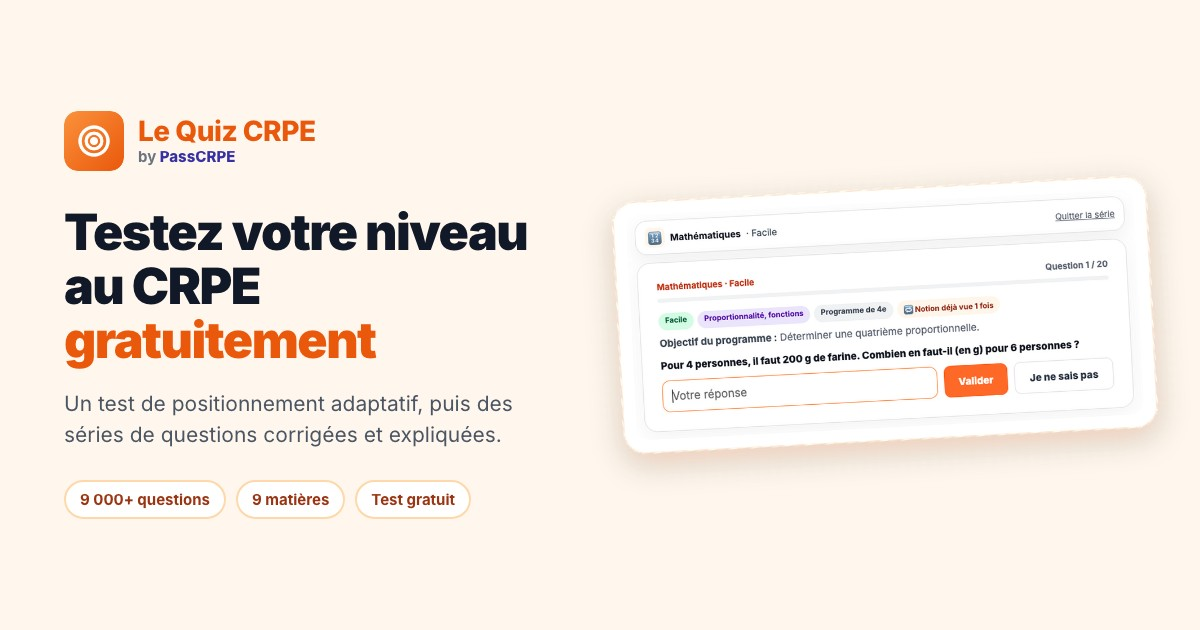
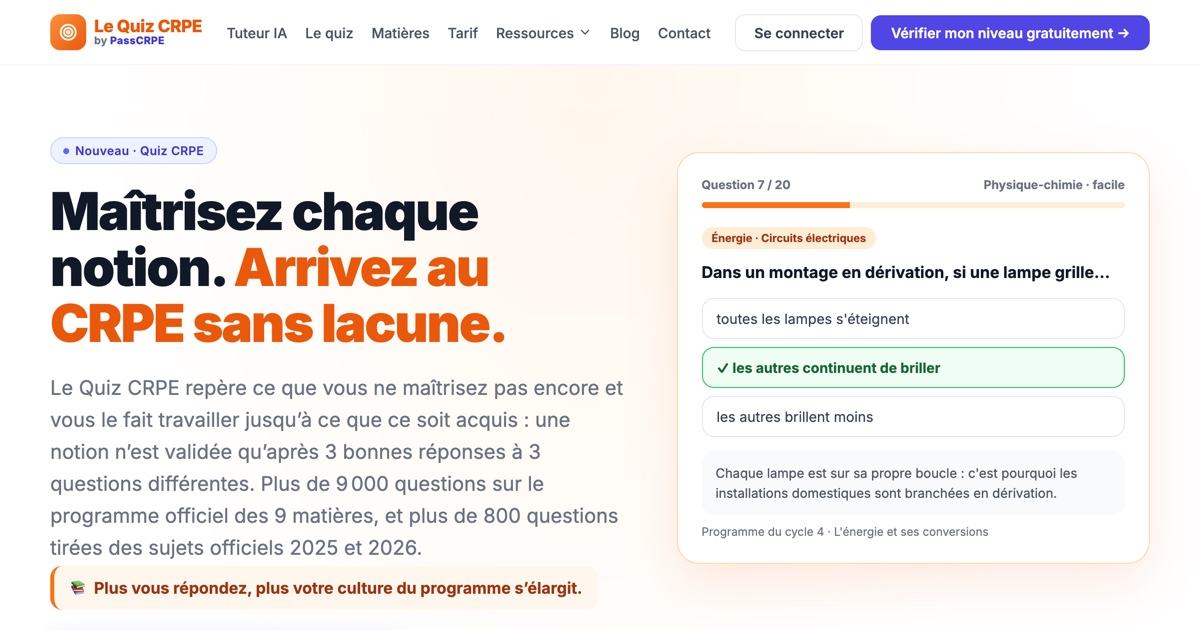
Quiz CRPE : aperçu de partage = premier écran de /quizcrpe
L'image partagée (og:image, twitter:image) reprend le haut de la page avec
sa proposition de valeur ; ?v=2 force la mise à jour des aperçus en cache.
Texte de la page : plus de 800 questions tirées des sujets officiels.

Changed region(s): [[0.0308, 0.1508, 0.9867, 0.9651], [0.6167, 0.0, 0.9558, 0.0905], [0.0308, 0.0, 0.5858, 0.0905]]

diff --git a/landing/quiz.html b/landing/quiz.html
@@ -39,15 +39,15 @@
   <meta property="og:url" content="https://www.passcrpe.fr/quizcrpe" />
   <meta property="og:title" content="Le Quiz CRPE by PassCRPE : testez votre niveau gratuitement" />
   <meta property="og:description" content="Test de positionnement gratuit, puis plus de 9 000 questions corrigées et expliquées dans les 9 matières du CRPE." />
-  <meta property="og:image" content="https://www.passcrpe.fr/images/partage-quizcrpe.jpg" />
+  <meta property="og:image" content="https://www.passcrpe.fr/images/partage-quizcrpe.jpg?v=2" />
   <meta property="og:image:type" content="image/jpeg" />
   <meta property="og:image:width" content="1200" />
   <meta property="og:image:height" content="630" />
-  <meta property="og:image:alt" content="Le Quiz CRPE by PassCRPE : une question de mathématiques du quiz" />
+  <meta property="og:image:alt" content="Le Quiz CRPE by PassCRPE : maîtrisez chaque notion, arrivez au CRPE sans lacune" />
   <meta name="twitter:card" content="summary_large_image" />
   <meta name="twitter:title" content="Le Quiz CRPE by PassCRPE : testez votre niveau gratuitement" />
   <meta name="twitter:description" content="Test de positionnement gratuit, puis plus de 9 000 questions corrigées et expliquées dans les 9 matières du CRPE." />
-  <meta name="twitter:image" content="https://www.passcrpe.fr/images/partage-quizcrpe.jpg" />
+  <meta name="twitter:image" content="https://www.passcrpe.fr/images/partage-quizcrpe.jpg?v=2" />
   <!-- /Partage -->
   <link rel="preconnect" href="https://fonts.googleapis.com" />
   <link href="https://fonts.googleapis.com/css2?family=Inter:wght@400;500;600;700;800;900&display=swap" rel="stylesheet" />
@@ -1182,7 +1182,7 @@ height="0" width="0" style="display:none;visibility:hidden"></iframe></noscript>
     <div class="qz-hero-texte">
       <div class="hero-badge"><span></span>Nouveau · Quiz CRPE</div>
       <h1>Maîtrisez chaque notion. <em>Arrivez au CRPE sans lacune.</em></h1>
-      <p class="hero-sub" style="margin-bottom:14px">Le Quiz CRPE repère ce que vous ne maîtrisez pas encore et vous le fait travailler jusqu’à ce que ce soit acquis : une notion n’est validée qu’après 3 bonnes réponses à 3 questions différentes. Plus de 9 000 questions sur le programme officiel des 9 matières, et près de 500 questions tirées des sujets officiels 2025 et 2026.</p>
+      <p class="hero-sub" style="margin-bottom:14px">Le Quiz CRPE repère ce que vous ne maîtrisez pas encore et vous le fait travailler jusqu’à ce que ce soit acquis : une notion n’est validée qu’après 3 bonnes réponses à 3 questions différentes. Plus de 9 000 questions sur le programme officiel des 9 matières, et plus de 800 questions tirées des sujets officiels 2025 et 2026.</p>
       <p class="hero-sub">Commencez par le test de positionnement gratuit : il vous montre vos lacunes, matière par matière.</p>
     </div>
     <div class="qz-hero-suite">

diff --git a/scripts/generate_quiz_vente.py b/scripts/generate_quiz_vente.py
@@ -207,7 +207,7 @@ def contenu():
     <div class="qz-hero-texte">
       <div class="hero-badge"><span></span>Nouveau · Quiz CRPE</div>
       <h1>Maîtrisez chaque notion. <em>Arrivez au CRPE sans lacune.</em></h1>
-      <p class="hero-sub" style="margin-bottom:14px">Le Quiz CRPE repère ce que vous ne maîtrisez pas encore et vous le fait travailler jusqu’à ce que ce soit acquis : une notion n’est validée qu’après 3 bonnes réponses à 3 questions différentes. Plus de {total_txt} questions sur le programme officiel des {len(MATIERES)} matières, et près de 500 questions tirées des sujets officiels 2025 et 2026.</p>
+      <p class="hero-sub" style="margin-bottom:14px">Le Quiz CRPE repère ce que vous ne maîtrisez pas encore et vous le fait travailler jusqu’à ce que ce soit acquis : une notion n’est validée qu’après 3 bonnes réponses à 3 questions différentes. Plus de {total_txt} questions sur le programme officiel des {len(MATIERES)} matières, et plus de 800 questions tirées des sujets officiels 2025 et 2026.</p>
       <p class="hero-sub">Commencez par le test de positionnement gratuit : il vous montre vos lacunes, matière par matière.</p>
     </div>
     <div class="qz-hero-suite">
@@ -400,15 +400,15 @@ PARTAGE = (
     f'  <meta property="og:url" content="{SITE}/quizcrpe" />\n'
     f'  <meta property="og:title" content="Le Quiz CRPE by PassCRPE : testez votre niveau gratuitement" />\n'
     f'  <meta property="og:description" content="Test de positionnement gratuit, puis plus de 9 000 questions corrigées et expliquées dans les 9 matières du CRPE." />\n'
-    f'  <meta property="og:image" content="{SITE}/images/partage-quizcrpe.jpg" />\n'
+    f'  <meta property="og:image" content="{SITE}/images/partage-quizcrpe.jpg?v=2" />\n'
     f'  <meta property="og:image:type" content="image/jpeg" />\n'
     f'  <meta property="og:image:width" content="1200" />\n'
     f'  <meta property="og:image:height" content="630" />\n'
-    f'  <meta property="og:image:alt" content="Le Quiz CRPE by PassCRPE : une question de mathématiques du quiz" />\n'
+    f'  <meta property="og:image:alt" content="Le Quiz CRPE by PassCRPE : maîtrisez chaque notion, arrivez au CRPE sans lacune" />\n'
     f'  <meta name="twitter:card" content="summary_large_image" />\n'
     f'  <meta name="twitter:title" content="Le Quiz CRPE by PassCRPE : testez votre niveau gratuitement" />\n'
     f'  <meta name="twitter:description" content="Test de positionnement gratuit, puis plus de 9 000 questions corrigées et expliquées dans les 9 matières du CRPE." />\n'
-    f'  <meta name="twitter:image" content="{SITE}/images/partage-quizcrpe.jpg" />\n'
+    f'  <meta name="twitter:image" content="{SITE}/images/partage-quizcrpe.jpg?v=2" />\n'
     f'  <!-- /Partage -->\n'
 )
 
